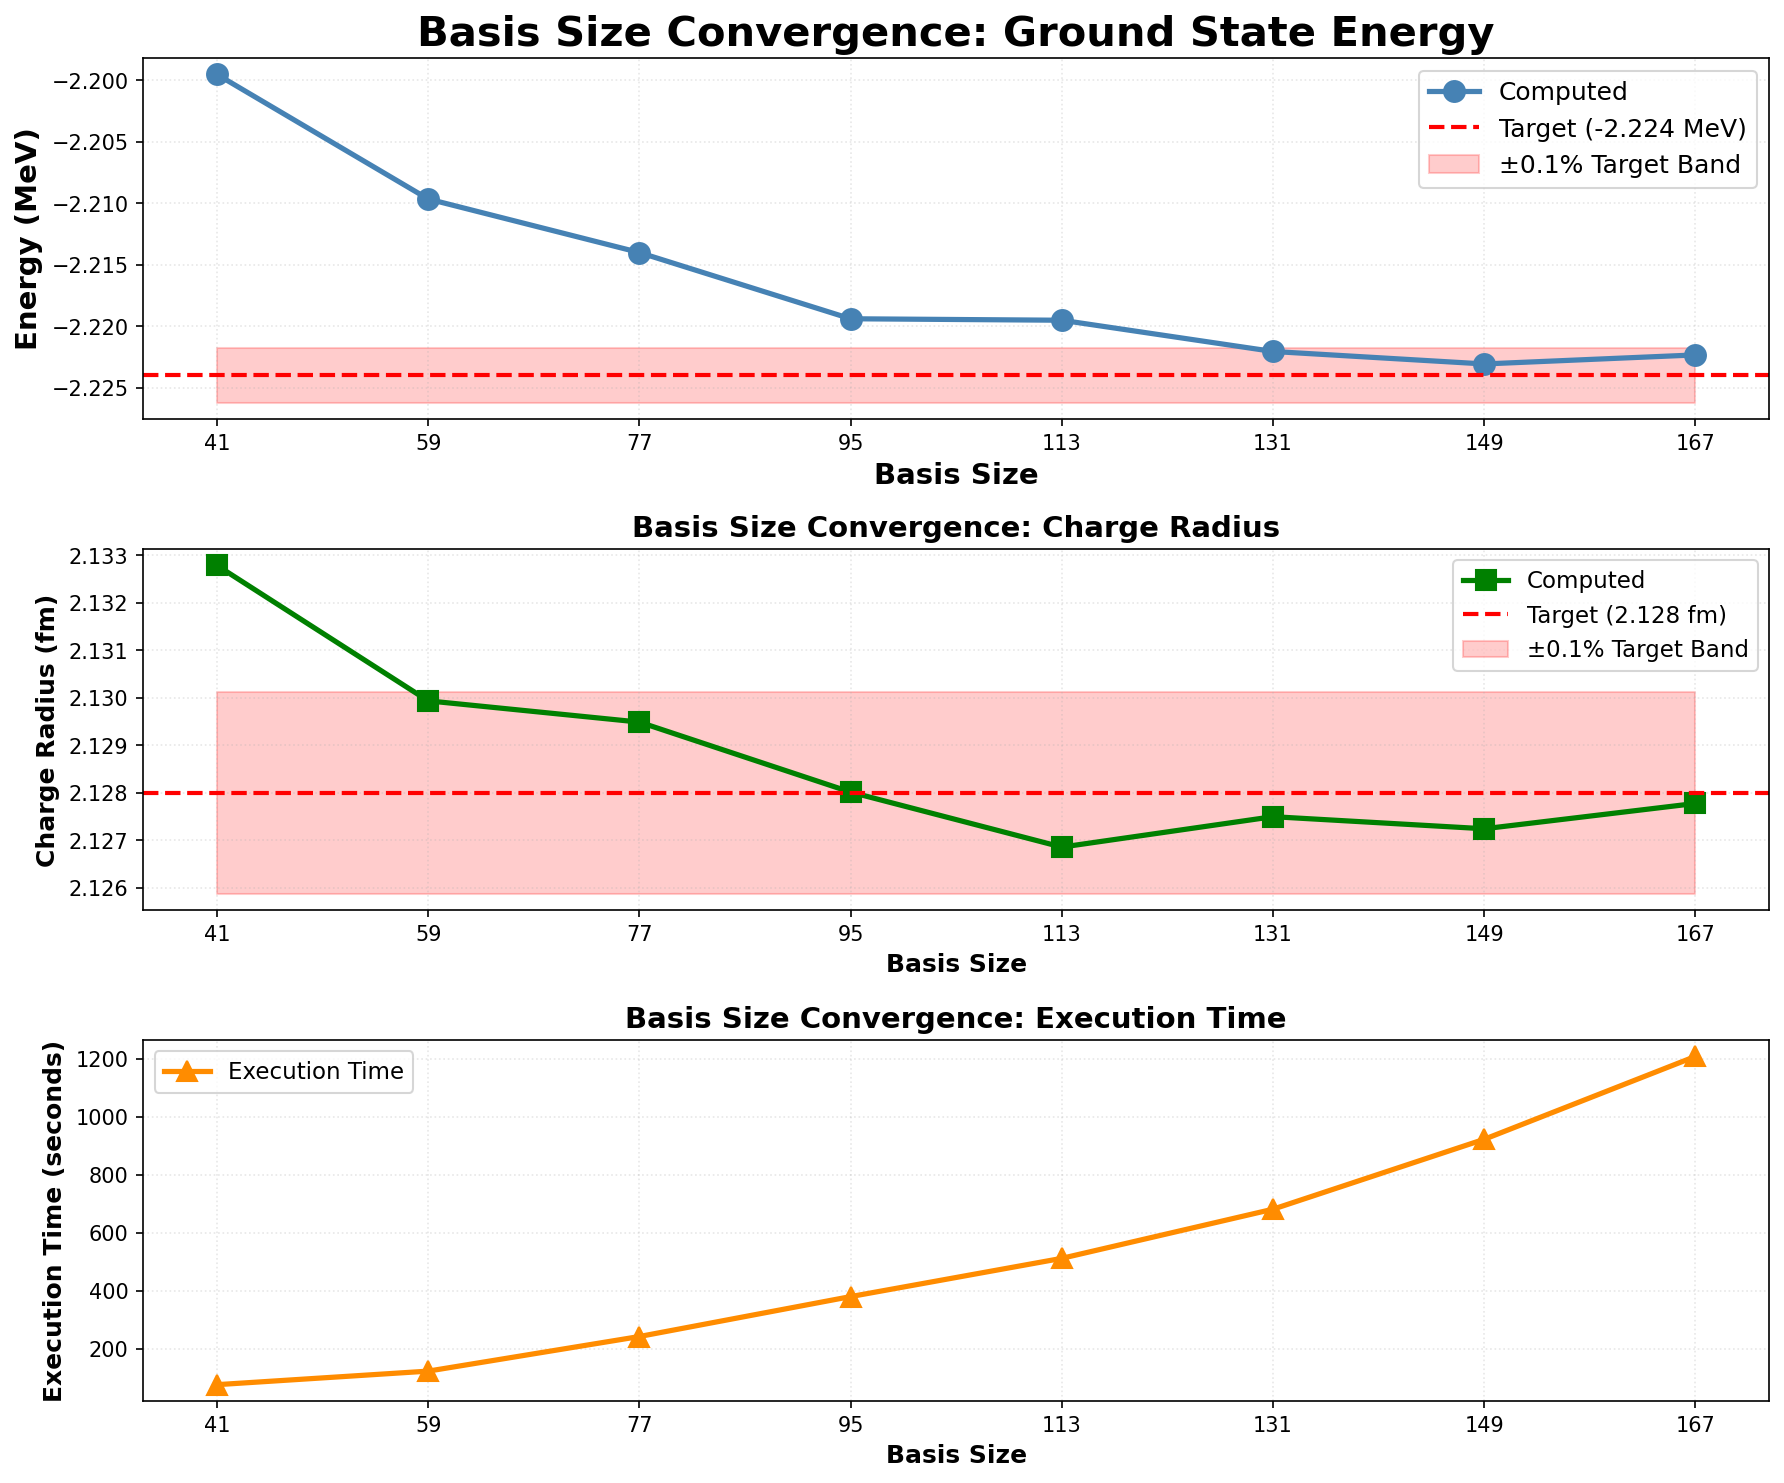
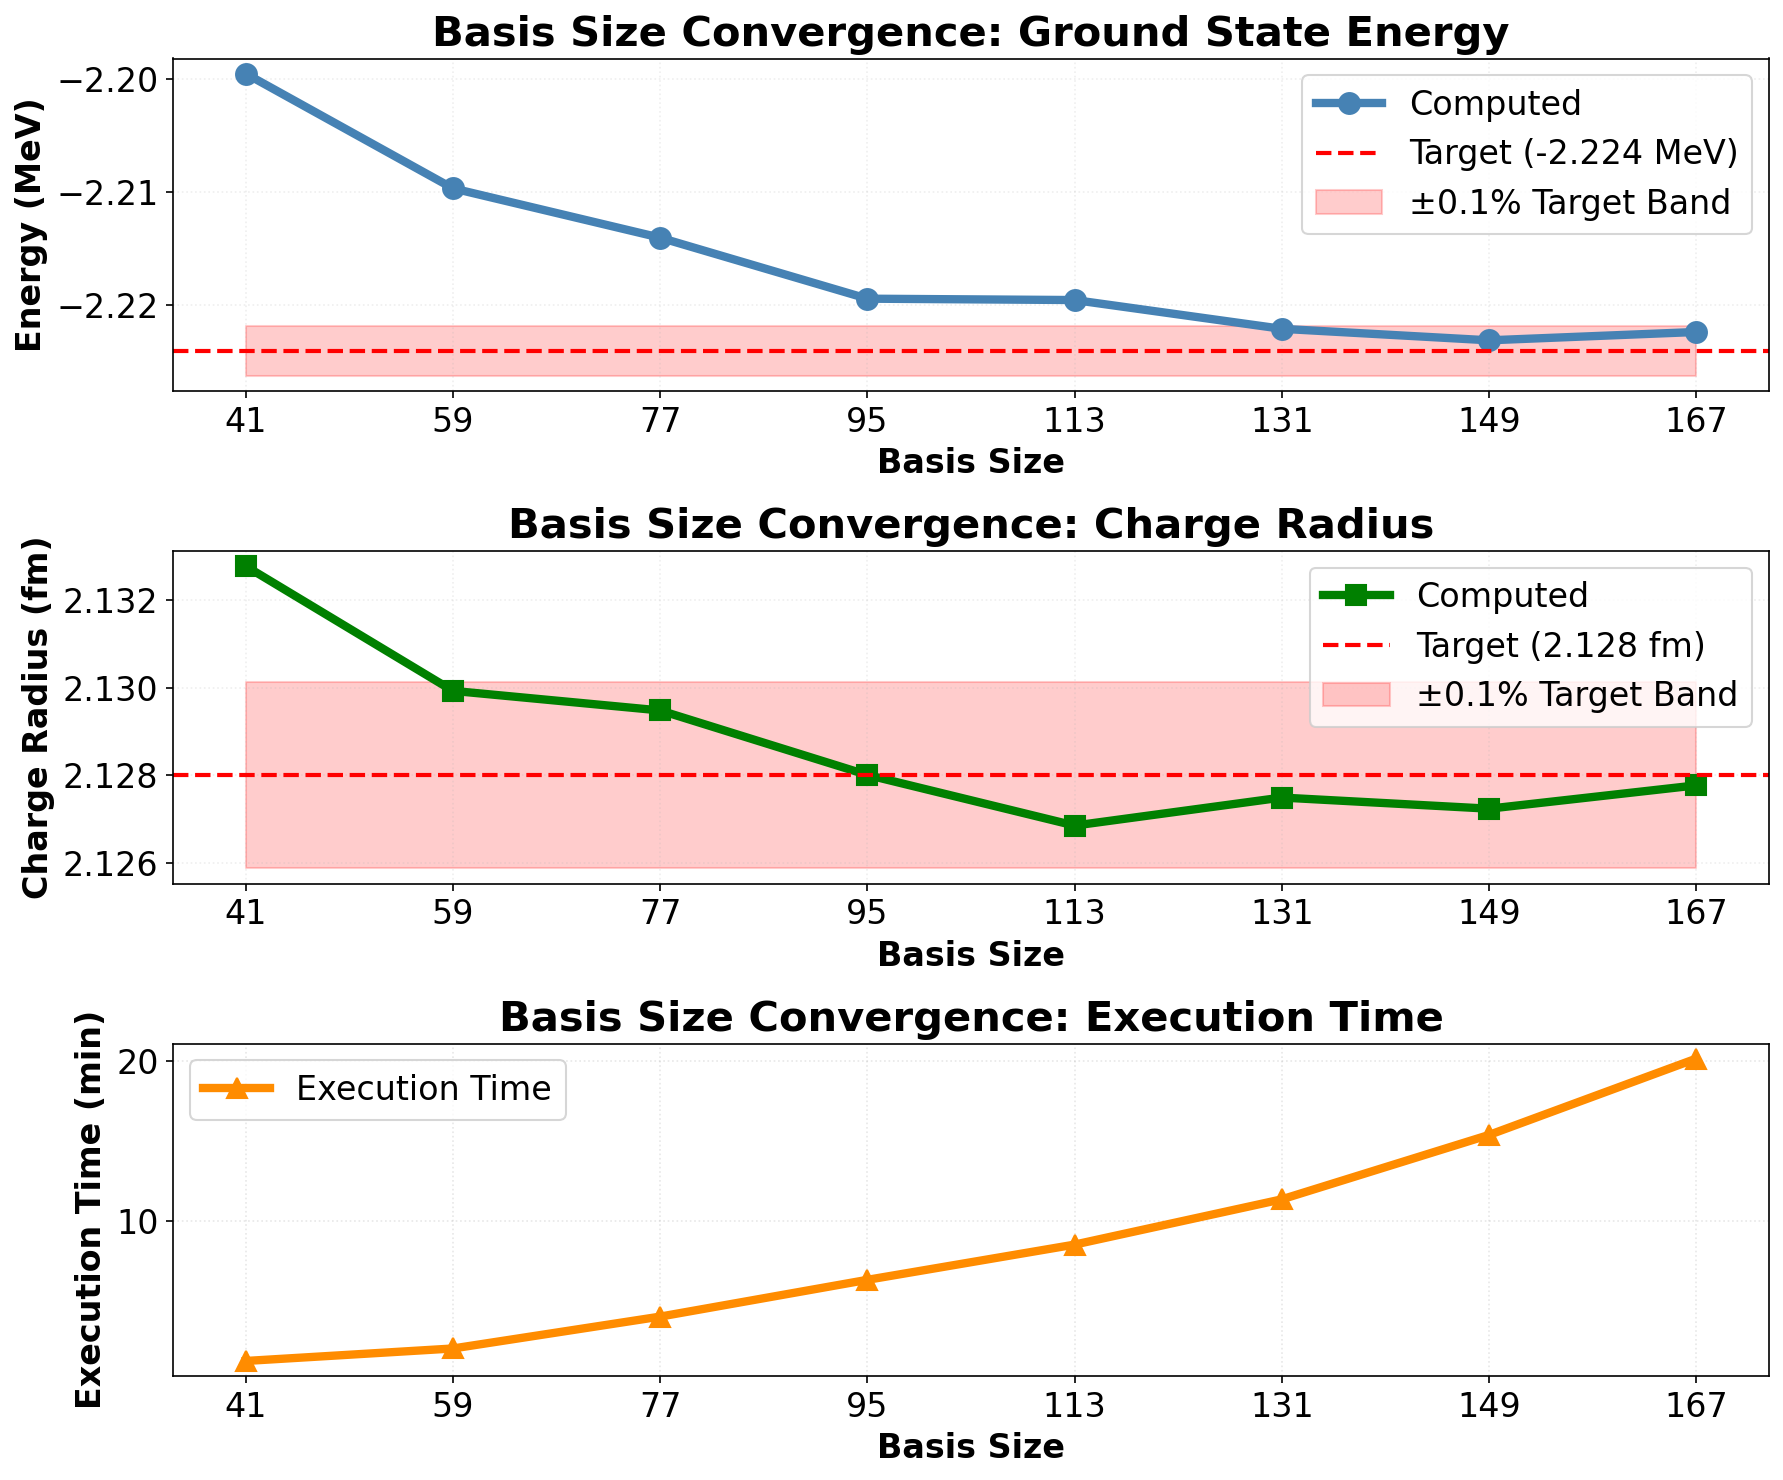
Done

diff --git a/qm/solver.h b/qm/solver.h
@@ -83,107 +83,106 @@
 
 namespace qm {
 
-// Helper function to find lowest eigenvalue and eigenvector using Jacobi diagonalization
-// Returns: pair of (eigenvalue, eigenvector) where eigenvector is normalized
-std::pair<ld, cvec> jacobi_with_eigenvector(cmat& A, int max_sweeps = 100, size_t nvals = 0) {
+// ---------------------------------------------------------
+// VERSION 1: Returns ONLY lowest eigenvalue and eigenvector
+// ---------------------------------------------------------
+std::pair<ld, cvec> jacobi_with_eigenvector(cmat A, int max_sweeps = 1000, size_t nvals = 0) {
     size_t n = A.size1();
-
-    // If nvals is 0 or too large, sweep the whole matrix (up to n-1).
     size_t p_max = (nvals == 0 || nvals >= n) ? n - 1 : nvals;
 
-    // Initialize eigenvector matrix as identity (tracks rotations)
     cmat V = eye<cld>(n);
 
-    // 1. Setup Phase: Only calculate average error for the rows we actually sweep!
+    // 1. Setup Phase: Calculate average error
     ld sum_off_diag = 0.0;
     for (size_t p = 0; p < p_max; ++p) {
         for (size_t q = p + 1; q < n; ++q) sum_off_diag += std::abs(A(p, q));
     }
     
-    // Adjust denominator to match the number of elements we checked
     ld threshold = sum_off_diag / (p_max * n); 
     int total_rotations;
 
     for (int sweep = 0; sweep < max_sweeps; ++sweep) {
         ld max_off_diag = 0.0;
-        total_rotations = 0; // Track if we actually did anything this sweep
+        total_rotations = 0;
 
-        // PARTIAL Jacobi sweep: only go up to p_max
         for (size_t p = 0; p < p_max; ++p) {
             for (size_t q = p + 1; q < n; ++q) {
-                ld off_diag_mag = std::abs(A(p, q));
-                if (off_diag_mag > max_off_diag) max_off_diag = off_diag_mag;
+                
+                cld apq = A(p, q);
+                ld mag_apq = std::abs(apq);
+                if (mag_apq > max_off_diag) max_off_diag = mag_apq;
 
-                if (off_diag_mag > threshold) {
+                if (mag_apq > threshold && mag_apq > 1e-15) {
                     total_rotations++;
                     
-                    // Calculate the rotation angles
                     ld app = std::real(A(p, p));
                     ld aqq = std::real(A(q, q));
-                    cld apq = A(p, q);
 
-                    ld tau = (aqq - app) / (2.0 * off_diag_mag);
+                    // atan2 naturally sorts the matrix! Smaller elements bubble up to 'p'
+                    ld phi = 0.5 * std::atan2(2.0 * mag_apq, aqq - app);
+                    ld c = std::cos(phi);
+                    ld s = std::sin(phi);
+                    
+                    cld phase = apq / mag_apq; // Phase to handle complex elements
 
-                    ld t;
-                    if (tau >= 0.0) {
-                        t = 1.0 / (tau + std::sqrt(1.0 + tau * tau));
-                    } else {
-                        t = -tau + std::sqrt(1.0 + tau * tau);
-                    }
+                    ld app1 = c * c * app - 2.0 * s * c * mag_apq + s * s * aqq;
+                    ld aqq1 = s * s * app + 2.0 * s * c * mag_apq + c * c * aqq;
 
-                    ld cos_t = 1.0 / std::sqrt(1.0 + t * t);
-                    ld sin_t = t * cos_t;
-                    cld phase = std::conj(apq) / off_diag_mag; // Phase to handle complex elements
+                    // Apply rotation if mathematically meaningful
+                    if (app1 != app || aqq1 != aqq) {
+                        A(p, p) = app1;
+                        A(q, q) = aqq1;
+                        A(p, q) = 0.0;
+                        A(q, p) = 0.0;
 
-                    // Apply Givens rotation to A
-                    for (size_t i = 0; i < n; ++i) {
-                        cld ip = A(i, p);
-                        cld iq = A(i, q);
-                        A(i, p) = cos_t * ip - sin_t * phase * iq;
-                        A(i, q) = sin_t * std::conj(phase) * ip + cos_t * iq;
-                    }
-                    for (size_t i = 0; i < n; ++i) {
-                        cld pi = A(p, i);
-                        cld qi = A(q, i);
-                        A(p, i) = cos_t * pi - sin_t * std::conj(phase) * qi;
-                        A(q, i) = sin_t * phase * pi + cos_t * qi;
-                    }
+                        // Uniform row/col updates to enforce strict Hermitian symmetry
+                        for (size_t i = 0; i < n; ++i) {
+                            if (i == p || i == q) continue;
+                            
+                            cld aip = A(i, p);
+                            cld aiq = A(i, q);
+                            
+                            A(i, p) = c * aip - s * std::conj(phase) * aiq;
+                            A(i, q) = s * phase * aip + c * aiq;
+                            
+                            A(p, i) = std::conj(A(i, p));
+                            A(q, i) = std::conj(A(i, q));
+                        }
 
-                    // Apply same rotation to eigenvector matrix V
-                    for (size_t i = 0; i < n; ++i) {
-                        cld vip = V(i, p);
-                        cld viq = V(i, q);
-                        V(i, p) = cos_t * vip - sin_t * phase * viq;
-                        V(i, q) = sin_t * std::conj(phase) * vip + cos_t * viq;
+                        // Apply same rotation to eigenvector matrix V
+                        for (size_t i = 0; i < n; ++i) {
+                            cld vip = V(i, p);
+                            cld viq = V(i, q);
+                            
+                            V(i, p) = c * vip - s * std::conj(phase) * viq;
+                            V(i, q) = s * phase * vip + c * viq;
+                        }
                     }
                 }
             }
         }
         
-        // 3. Lower the threshold for the next sweep
-        if (threshold > ZERO_LIMIT) {
-            threshold *= 0.2; 
-        }
-
-        // 4. Convergence Check (We hit the floor AND found no errors)
-        if (max_off_diag < ZERO_LIMIT && total_rotations == 0) {
-            break; 
-        }    
+        // Lower the threshold for the next sweep
+        if (threshold > 1e-15) threshold *= 0.2; 
+        
+        // Convergence Check
+        if (max_off_diag < 1e-15 && total_rotations == 0) break;     
     }
 
+    // Because atan2 sorted the matrix, lowest E is perfectly positioned at (0,0)
     ld lowest_E = std::real(A(0, 0));
 
-    // Extract the corresponding eigenvector from V
-    cvec eigvec = V[0];
-
-    // Normalize the eigenvector
-    cld norm = 0.0;
+    // Extract the corresponding eigenvector from COLUMN 0 of V
+    cvec eigvec(n);
+    ld norm_sq = 0.0;
     for (size_t i = 0; i < n; ++i) {
-        norm += std::conj(eigvec[i]) * eigvec[i];
+        eigvec[i] = V(i, 0); 
+        norm_sq += std::norm(eigvec[i]); // std::norm is |z|^2 in C++
     }
-    norm = std::sqrt(norm);
 
-    if (std::abs(norm) > ZERO_LIMIT) {
+    // Normalize
+    ld norm = std::sqrt(norm_sq);
+    if (norm > 1e-15) {
         for (size_t i = 0; i < n; ++i) {
             eigvec[i] /= norm;
         }

diff --git a/scripts/plot_results.py b/scripts/plot_results.py
@@ -1079,7 +1079,7 @@ def plot_basis_size_convergence(csv_file):
     sorted_data = sorted(zip(data["step"], data["num_boxes"], data["energy"], data["basis_size"], data["radius"], data["execution_time"]))
     steps, num_boxes, energies, basis_sizes, radii, exec_times = zip(*sorted_data)
     
-    fig, axes = plt.subplots(3, 1, figsize=(11, 10))
+    fig, axes = plt.subplots(3, 1, figsize=(12, 10))
     
     # Target values and tolerance
     ENERGY_TARGET = -2.224
@@ -1089,43 +1089,47 @@ def plot_basis_size_convergence(csv_file):
     # Plot 1: Energy convergence with ±0.1% band
     ax1 = axes[0]
     energy_tolerance = abs(ENERGY_TARGET * TOLERANCE_PERCENT)
-    ax1.plot(basis_sizes, energies, 'o-', linewidth=2.5, markersize=10, label='Computed', color='steelblue')
+    ax1.plot(basis_sizes, energies, 'o-', linewidth=4, markersize=10, label='Computed', color='steelblue')
     ax1.axhline(y=ENERGY_TARGET, color='r', linestyle='--', linewidth=2, label=f'Target ({ENERGY_TARGET} MeV)')
     ax1.fill_between(basis_sizes, ENERGY_TARGET - energy_tolerance, ENERGY_TARGET + energy_tolerance, 
                      alpha=0.2, color='red', label='±0.1% Target Band')
-    ax1.set_xlabel('Basis Size', fontsize=12, fontweight='bold')
-    ax1.set_ylabel('Energy (MeV)', fontsize=12, fontweight='bold')
-    ax1.set_title('Basis Size Convergence: Ground State Energy', fontsize=14, fontweight='bold')
-    ax1.grid(True, alpha=0.3, linestyle=':')
-    ax1.legend(fontsize=11, loc='best')
+    ax1.set_xlabel('Basis Size', fontsize=16, fontweight='bold')
+    ax1.set_ylabel('Energy (MeV)', fontsize=16, fontweight='bold')
+    ax1.set_title('Basis Size Convergence: Ground State Energy', fontsize=20, fontweight='bold')
+    ax1.grid(True, alpha=0.2, linestyle=':')
+    ax1.legend(fontsize=16, loc='upper right')
     ax1.set_xticks(basis_sizes)
+    ax1.tick_params(axis='both', labelsize=16)
     
     # Plot 2: Radius convergence with ±0.1% band
     if radii and any(r is not None and r > 0 for r in radii):
         ax2 = axes[1]
         radii_clean = [r if r is not None else 0 for r in radii]
         radius_tolerance = RADIUS_TARGET * TOLERANCE_PERCENT
-        ax2.plot(basis_sizes, radii_clean, 's-', linewidth=2.5, markersize=10, color='green', label='Computed')
+        ax2.plot(basis_sizes, radii_clean, 's-', linewidth=4, markersize=10, color='green', label='Computed')
         ax2.axhline(y=RADIUS_TARGET, color='r', linestyle='--', linewidth=2, label=f'Target ({RADIUS_TARGET} fm)')
         ax2.fill_between(basis_sizes, RADIUS_TARGET - radius_tolerance, RADIUS_TARGET + radius_tolerance,
                         alpha=0.2, color='red', label='±0.1% Target Band')
-        ax2.set_xlabel('Basis Size', fontsize=12, fontweight='bold')
-        ax2.set_ylabel('Charge Radius (fm)', fontsize=12, fontweight='bold')
-        ax2.set_title('Basis Size Convergence: Charge Radius', fontsize=14, fontweight='bold')
-        ax2.grid(True, alpha=0.3, linestyle=':')
-        ax2.legend(fontsize=11, loc='best')
+        ax2.set_xlabel('Basis Size', fontsize=16, fontweight='bold')
+        ax2.set_ylabel('Charge Radius (fm)', fontsize=16, fontweight='bold')
+        ax2.set_title('Basis Size Convergence: Charge Radius', fontsize=20, fontweight='bold')
+        ax2.grid(True, alpha=0.2, linestyle=':')
+        ax2.legend(fontsize=16, loc='upper right')
         ax2.set_xticks(basis_sizes)
+        ax2.tick_params(axis='both', labelsize=16)
     
     # Plot 3: Execution time convergence
     if exec_times and any(t > 0 for t in exec_times):
         ax3 = axes[2]
-        ax3.plot(basis_sizes, exec_times, '^-', linewidth=2.5, markersize=10, color='darkorange', label='Execution Time')
-        ax3.set_xlabel('Basis Size', fontsize=12, fontweight='bold')
-        ax3.set_ylabel('Execution Time (seconds)', fontsize=12, fontweight='bold')
-        ax3.set_title('Basis Size Convergence: Execution Time', fontsize=14, fontweight='bold')
+        times = [t/60 for t in exec_times]
+        ax3.plot(basis_sizes, times, '^-', linewidth=4, markersize=10, color='darkorange', label='Execution Time')
+        ax3.set_xlabel('Basis Size', fontsize=16, fontweight='bold')
+        ax3.set_ylabel('Execution Time (min)', fontsize=16, fontweight='bold')
+        ax3.set_title('Basis Size Convergence: Execution Time', fontsize=20, fontweight='bold')
         ax3.grid(True, alpha=0.3, linestyle=':')
-        ax3.legend(fontsize=11, loc='best')
+        ax3.legend(fontsize=16, loc='upper left')
         ax3.set_xticks(basis_sizes)
+        ax3.tick_params(axis='both', labelsize=16)
     
     plt.tight_layout()
     output_file = csv_file.replace('aggregated.csv', 'basis_convergence.png')

diff --git a/scripts/generate_tables.py b/scripts/generate_tables.py
@@ -5,7 +5,7 @@ import glob
 # CONFIGURATION
 # ==========================================
 # Folder containing the CSV files
-DATA_FOLDER = "results/all_configs_20260609_113523" 
+DATA_FOLDER = "results/all_configs_20260609_142217" 
 OUTPUT_FILE = "latex_tables_output.txt"
 
 # Expected file substrings and their corresponding table labels